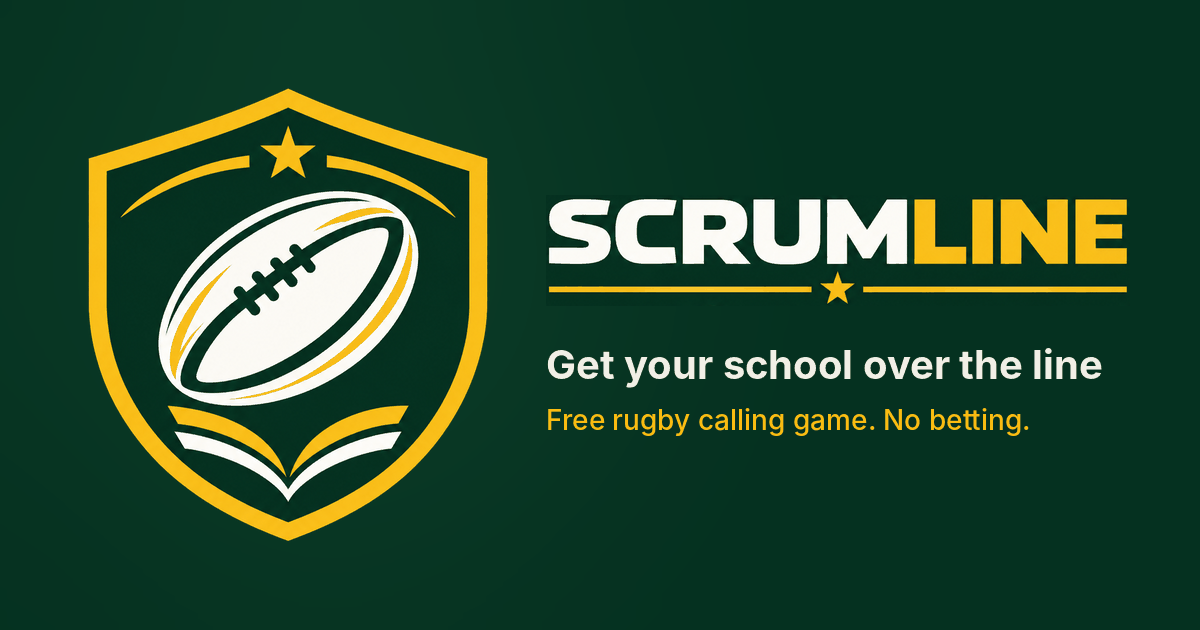
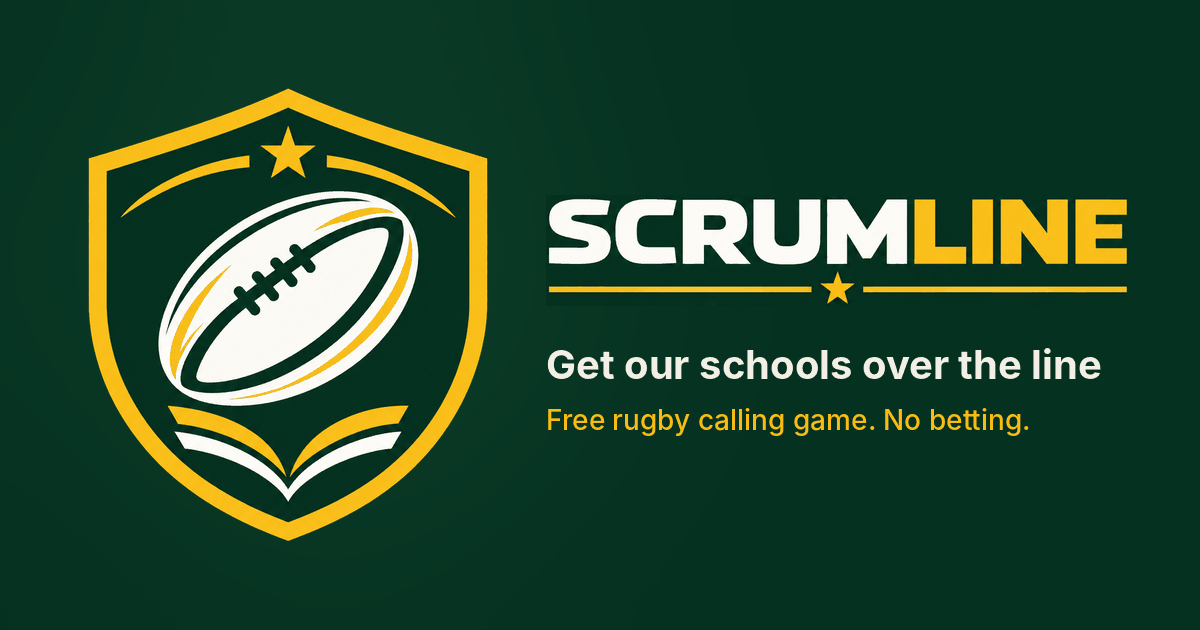
Tagline: Get our schools over the line
Claude-Session: https://claude.ai/code/session_01K6YJ5KoA7Q3do36k9uCNX3

Changed region(s): [[0.5242, 0.5429, 0.925, 0.6032]]

diff --git a/src/app/layout.tsx b/src/app/layout.tsx
@@ -10,10 +10,10 @@ import { Intro, introScript } from "@/components/intro";
 import { PwaSetup } from "@/components/pwa-setup";
 import { PreviewBar } from "@/components/preview-bar";
 
-const description = "Get your school over the line. A free rugby calling game that helps fund South African schools: call the scores and win prizes from local businesses, or sponsor a round and get seen every weekend. No betting.";
+const description = "Get our schools over the line. A free rugby calling game that helps fund South African schools: call the scores and win prizes from local businesses, or sponsor a round and get seen every weekend. No betting.";
 // Link previews (WhatsApp, iMessage, socials) need an absolute image address, or the app picks its own.
 const site = `${process.env.NEXT_PUBLIC_SITE_ORIGIN ?? "https://jdaines89.github.io"}${process.env.NEXT_PUBLIC_BASE_PATH ?? ""}`;
-const card = { url: `${site}/share-card.png`, width: 1200, height: 630, alt: "Scrumline, get your school over the line" };
+const card = { url: `${site}/share-card.png`, width: 1200, height: 630, alt: "Scrumline, get our schools over the line" };
 
 export const metadata: Metadata = {
   title: "Scrumline",

diff --git a/src/components/bok-tests.tsx b/src/components/bok-tests.tsx
@@ -122,7 +122,7 @@ async function drawCard(seasonName: string, tests: BokTest[], teams: Map<string,
   g.fillStyle = "#0d1412"; g.fillRect(0, 0, W, H);
   g.fillStyle = "#1d6f4d"; g.fillRect(0, 0, W, 14);
   g.fillStyle = "#e8f0ec"; g.font = font(800, 44); g.fillText("SCRUMLINE", pad, 120);
-  g.fillStyle = "#e0b23c"; g.font = font(700, 22); g.fillText("GET YOUR SCHOOL OVER THE LINE", pad, 158);
+  g.fillStyle = "#e0b23c"; g.font = font(700, 22); g.fillText("GET OUR SCHOOLS OVER THE LINE", pad, 158);
   g.fillStyle = "#e8f0ec"; fit("Call the Boks' tests", 800, 80, W - pad * 2); g.fillText("Call the Boks' tests", pad, 300);
   g.fillText("with us", pad, 390);
   g.fillStyle = "#8aa79a"; fit(seasonName, 500, 34, W - pad * 2); g.fillText(seasonName, pad, 450);

diff --git a/src/components/round-recap.tsx b/src/components/round-recap.tsx
@@ -208,7 +208,7 @@ async function drawCard(sub: string, title: string, lines: Line[], table: { name
   g.fillStyle = "#1d6f4d"; g.fillRect(0, 0, W, 14);
   const font = (w: number, px: number) => `${w} ${px}px system-ui, -apple-system, "Segoe UI", sans-serif`;
   g.fillStyle = "#e8f0ec"; g.font = font(800, 44); g.fillText("SCRUMLINE", pad, 120);
-  g.fillStyle = "#e0b23c"; g.font = font(700, 22); g.fillText("GET YOUR SCHOOL OVER THE LINE", pad, 158);
+  g.fillStyle = "#e0b23c"; g.font = font(700, 22); g.fillText("GET OUR SCHOOLS OVER THE LINE", pad, 158);
   g.fillStyle = "#e8f0ec"; g.font = font(800, 72); g.fillText(title, pad, 290);
   g.fillStyle = "#8aa79a"; g.font = font(500, 32); g.fillText(sub, pad, 342);
 

diff --git a/src/components/share-moment.tsx b/src/components/share-moment.tsx
@@ -120,7 +120,7 @@ export async function drawMoment(m: Moment, name: string, colours: (string | nul
   if (logo) g.drawImage(logo, pad + 5, 118, 88, 100);
   g.fillStyle = CHALK; g.font = font(900, 54); g.fillText("SCRUMLINE", pad + (logo ? 120 : 0), 176);
   g.fillStyle = GOLD; g.font = font(700, 22); g.letterSpacing = "4px";
-  g.fillText("GET YOUR SCHOOL OVER THE LINE", pad + (logo ? 122 : 2), 210); g.letterSpacing = "0px";
+  g.fillText("GET OUR SCHOOLS OVER THE LINE", pad + (logo ? 122 : 2), 210); g.letterSpacing = "0px";
 
   // The stamp: one big word, set at an angle in a ruled box, worn where the ink missed.
   const word = (m.stamp ?? m.kicker).toUpperCase();

diff --git a/src/components/join.tsx b/src/components/join.tsx
@@ -97,7 +97,7 @@ export function Join() {
       ) : (
         <>
           <h2>{info.inviter} invited you to Scrumline</h2>
-          <p className="sub">A free rugby calling game with your friends, your class and your school. Get your school over the line, win prizes from local businesses and help fund South African schools.</p>
+          <p className="sub">A free rugby calling game with your friends, your class and your school. Get our schools over the line, win prizes from local businesses and help fund South African schools.</p>
         </>
       )}
       <form onSubmit={submit} className="stack">

diff --git a/src/app/manifest.ts b/src/app/manifest.ts
@@ -10,7 +10,7 @@ export default function manifest(): MetadataRoute.Manifest {
     id: `${base}/`,
     name: "Scrumline",
     short_name: "Scrumline",
-    description: "Free rugby calling game. Get your school over the line.",
+    description: "Free rugby calling game. Get our schools over the line.",
     start_url: `${base}/`,
     scope: `${base}/`,
     display: "standalone",

diff --git a/src/components/logo.tsx b/src/components/logo.tsx
@@ -12,7 +12,7 @@ export function Brand() {
       <BallMark />
       <div>
         <div className="wordmark">Scrum<span>line</span></div>
-        <div className="subword">Get your school over the line</div>
+        <div className="subword">Get our schools over the line</div>
       </div>
     </div>
   );
